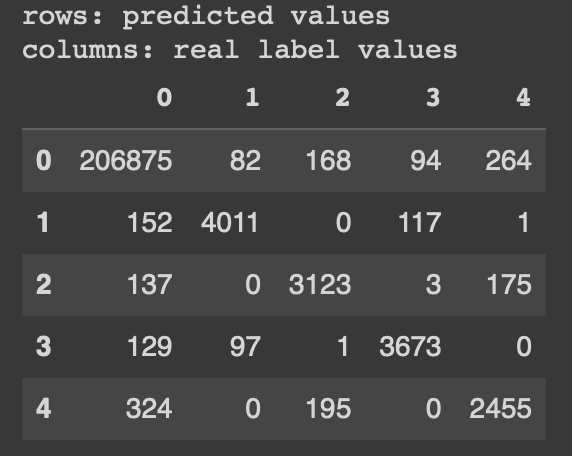
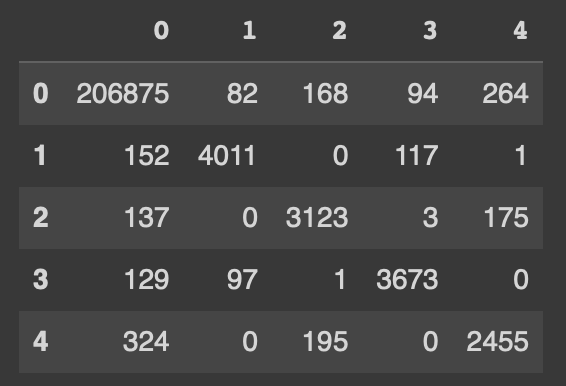
formatting text

diff --git a/README.md b/README.md
@@ -159,7 +159,17 @@ Metrics in the test set for every entity.
 
 ```
 
-The confusion matrix obtained is presented in the table.
+The confusion matrix obtained for the 4 entities are presented. Table rows represent predicted values 
+and columns real label values.
+
+
+O                                                :  0
+B-DebtInstrumentInterestRateStatedPercentage     : 41
+B-LineOfCreditFacilityMaximumBorrowingCapacity   : 87
+B-DebtInstrumentBasisSpreadOnVariableRate1       : 34
+B-DebtInstrumentFaceAmount                       : 37
+
+
 
 ![Confusion Matrix](./docs/confusion-matrix.png?  "Title")
 
